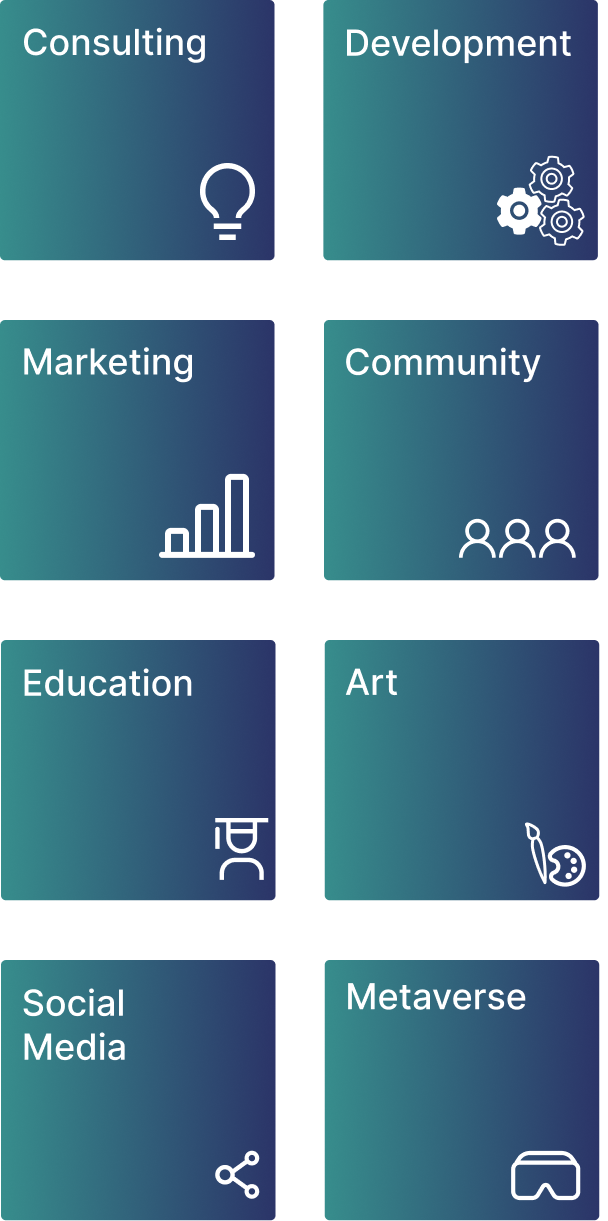
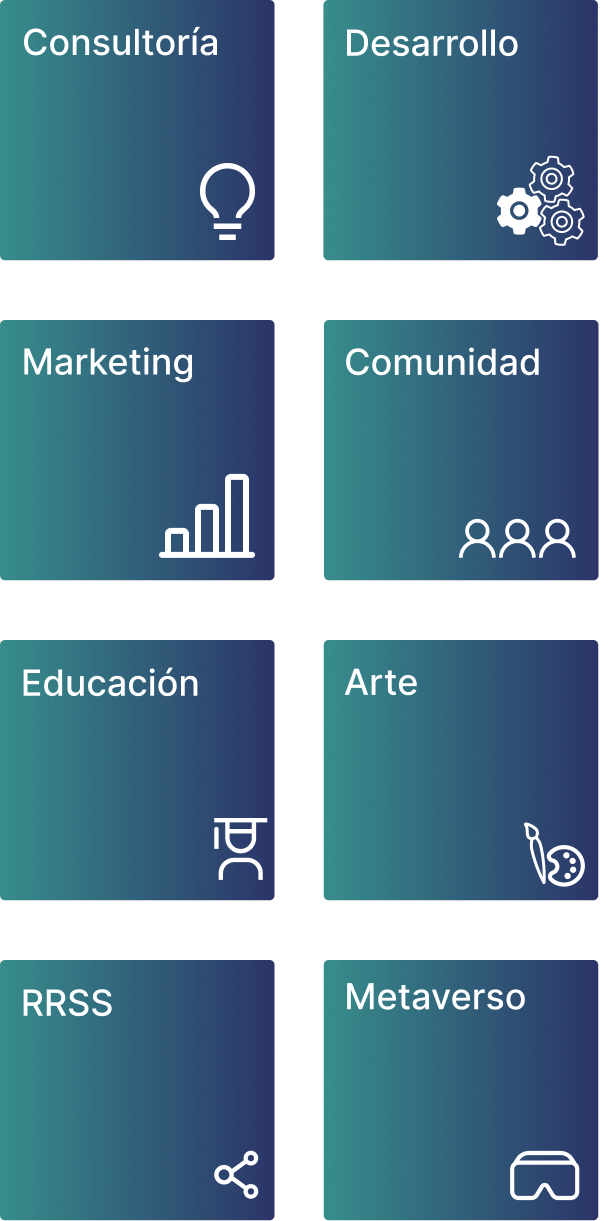
Minoir change

diff --git a/pages/team.js b/pages/team.js
@@ -1,0 +1,163 @@
+import Head from 'next/head'
+import {Row, Col} from 'antd'
+import {GrLinkedin} from 'react-icons/gr'
+import Layout from '../components/general/Layout'
+export default function Team() {
+
+  return (
+    <Layout>
+      <Head>
+        <title>Nomu Labs | Team</title>
+        <meta name="description" content="Nomu Labs es una agencia Web3 que te acompaña de principio a fin durante tu aventura en el metaverso." />
+        <link rel="icon" href="/favicon.ico" />
+      </Head>
+      <div className="fullScreen d-flex justify-content-center align-items-center mt-5 p-5">
+        <div>
+            <h1 className="text-white"><b>Nomu Labs Core Team</b></h1>
+        <Row justify="center" gutter={[32,32]} className="mt-5">
+            <Col sm={24} md={24} lg={4}>
+                <div className='text-center'>
+                    <img src="/assets/team/javi.png" alt="" className="img-fluid" />
+                    <p className="mt-3">
+                        <b>
+                        Javier Mateache<br />
+                        <span className="textGreen">
+                            CEO & Co-Founder
+                        </span>
+                        
+                        </b> 
+                    </p>
+                    <a href="https://www.linkedin.com/in/javier-mateache/" className="textGreen">
+                        <GrLinkedin/>
+                    </a>
+                </div>
+            </Col>
+            <Col sm={24} md={24} lg={4}>
+                <div className='text-center'>
+                    <img src="/assets/team/luis.png" alt="" className="img-fluid" />
+                    <p className="mt-3">
+                        <b>
+                        Luis Pozo-Gilo<br />
+                        <span className="textGreen">
+                            CTO & Co-Founder
+                        </span>
+                        
+                        </b> 
+                    </p>
+                    <a href="https://www.linkedin.com/in/luis-pozo-gilo" className="textGreen">
+                        <GrLinkedin/>
+                    </a>
+                </div>
+            </Col>
+            <Col sm={24} md={24} lg={4}>
+                <div className='text-center'>
+                    <img src="/assets/team/juanma.png" alt="" className="img-fluid" />
+                    <p className="mt-3">
+                        <b>
+                        Juanma Saez<br />
+                        <span className="textGreen">
+                            CBO
+                        </span>
+                        
+                        </b> 
+                    </p>
+                    <a href="https://www.linkedin.com/in/juanmasaezdrr/" className="textGreen">
+                        <GrLinkedin/>
+                    </a>
+                </div>
+            </Col>
+            <Col sm={24} md={24} lg={4}>
+                <div className='text-center'>
+                    <img src="/assets/team/camille.png" alt="" className="img-fluid" />
+                    <p className="mt-3">
+                        <b>
+                        Camille Hajjar<br />
+                        <span className="textGreen">
+                            Head of Art dept
+                        </span>
+                        
+                        </b> 
+                    </p>
+                    <a href="https://www.linkedin.com/in/camille-hajjar-b2499815a/" className="textGreen">
+                        <GrLinkedin/>
+                    </a>
+                </div>
+            </Col>
+            <Col sm={24} md={24} lg={4}>
+                <div className='text-center'>
+                    <img src="/assets/team/carlos.png" alt="" className="img-fluid" />
+                    <p className="mt-3">
+                        <b>
+                        Carlos Pozo-Gilo<br />
+                        <span className="textGreen">
+                            Head of Design
+                        </span>
+                        
+                        </b> 
+                    </p>
+                </div>
+            </Col>                                                
+        </Row>
+        <div className="mt-5">
+        <h2 className="text-white"><b>Advisors & Collaborators</b></h2>
+        <Row justify="center" gutter={[32,32]} className="mt-5">
+            <Col sm={24} md={24} lg={5}>
+                <div className='text-center'>
+                    <img src="/assets/team/juan.png" alt="" className="img-fluid" />
+                    <p className="mt-3">
+                        <b>
+                        Juan Milagro<br />
+                        <span className="textGreen">
+                            Partner at Mavens
+                        </span>
+                        
+                        </b> 
+                    </p>
+                    <a href="https://www.linkedin.com/in/juan-milagro/" className="textGreen">
+                        <GrLinkedin/>
+                    </a>
+                </div>
+            </Col>
+            <Col sm={24} md={24} lg={5}>
+                <div className='text-center'>
+                    <img src="/assets/team/sergio.png" alt="" className="img-fluid" />
+                    <p className="mt-3">
+                        <b>
+                        Sergio Navarro<br />
+                        <span className="textGreen">
+                        Easysmile CEO
+                        </span>
+                        
+                        </b> 
+                    </p>
+                    <a href="https://www.linkedin.com/in/sergionavarrofernandez/" className="textGreen">
+                        <GrLinkedin/>
+                    </a>
+                </div>
+            </Col>
+            <Col sm={24} md={24} lg={5}>
+                <div className='text-center'>
+                    <img src="/assets/team/sean.png" alt="" className="img-fluid" />
+                    <p className="mt-3">
+                        <b>
+                        Sean Bradford<br />
+                        <span className="textGreen">
+                        TheGalleryDAO founder
+                        </span>
+                        </b> 
+                    </p>
+                    <a href="https://www.linkedin.com/in/sean-bradford-21103039/" className="textGreen">
+                        <GrLinkedin/>
+                    </a>
+                </div>
+            </Col>                                             
+        </Row>            
+        </div>
+        </div>
+
+      </div>
+
+
+    </Layout>
+  )
+}

diff --git a/components/general/Layout.js b/components/general/Layout.js
@@ -5,26 +5,38 @@ import {Row, Col} from 'antd'
 export default function Layout(props){
     return(
         <div className='bg-dark'>
-            <nav className="navbar bg-black fixed-top">
-            <div className="container-fluid d-flex justify-content-space-between align-items-center">
-                <a className="navbar-brand" href="#">
+            <nav class="navbar navbar-dark smart-scroll navbar-expand-lg bg-black px-5 w-100 d-flex justify-content-space-between">
+                    <a class="navbar-brand" href="/">
                     <img src="/assets/logo.png" alt="Nomu Labs" className="d-inline-block align-text-middle logo-md"/>
-                </a>
+                    </a>
+                    <button  class="navbar-toggler" type="button" data-bs-toggle="collapse" data-bs-target="#navbarSupportedContent" aria-controls="navbarSupportedContent" aria-expanded="false" aria-label="Toggle navigation">
+                        <span class="navbar-toggler-icon"></span>
+                    </button>
+                <div class="collapse navbar-collapse" id="navbarSupportedContent">
+                    <ul class="navbar-nav">
+                    <li class="nav-item"><a class="nav-link text-white" href="/clients"> <b> Clientes </b></a></li>
+                    <li class="nav-item"><a class="nav-link text-white" href="/team"> <b>Equipo</b> </a></li>
+                    <li class="nav-item">
+                    <a href="https://calendly.com/nomulabs/30min" className='noLink'>
+                                <button className="gradientButton">Contáctanos</button>
+                    </a>
+                    </li>
 
-                <a href="https://calendly.com/nomulabs/30min" className='noLink'>
-                    <button className="gradientButton">Contactanos</button>
-                </a>
-            </div>
-            </nav>        
+                    </ul>
+                </div>
+                </nav>
             {props.children}
             <div className="bg-black">
             <div className="container-fluid py-3">
-                <Row justify="space-between" align="middle">
+                <Row justify="space-between" align="bottom">
                     <Col>
                         <img src="/assets/logo.png" alt="Nomu Labs" className="d-inline-block align-text-middle logo-md"/>                    
                     </Col>
                     <Col>
                         <a href="mailto:info@nomulabs.com" className="noLink text-white">info@nomulabs.com</a>
+                        <p className="text-center m-0">
+                        Madrid, Spain
+                        </p>
                     </Col>
                     <Col>
                     <Row>

diff --git a/pages/index.js b/pages/index.js
@@ -37,7 +37,7 @@ const indicatorStyles =  {
             <div className='mx-auto'>
               <img src="/assets/textLogo.png" alt="Nomu Labs" className="logo-xl" />
             <h2 className="mt-3 text-white">Adelantate para destacar.</h2>
-            <h5 className='gradientText text-start'>Web3 Agency</h5>
+            <h5 className='gradientText text-start'>Agencia Web3</h5>
             </div>
           </Col>
           <Col lg={16} className="text-end">
@@ -52,7 +52,7 @@ const indicatorStyles =  {
             <div className=''>
               <h1 className="gradientText"><b>Nomu</b> Labs</h1>
               <p className="mt-3 text-white text-md">
-              Contamos con un equipo y una red de partners que nos permiten proporcionar servicios 360º para cubrir todas las necesidades de tu proyecto.
+              Contamos con un equipo y una red de partners que nos permiten proporcionar un servicio 360º, con el objetivo de  cubrir todas las necesidades de tu proyecto.
               </p>
             </div>
           </Col>
@@ -74,12 +74,12 @@ const indicatorStyles =  {
             <h1 className='text-white'>Prepárate para la <span className="gradientText">tercera fase de internet.</span></h1>
             {/* <a href="!#"><h6 className="text-white mt-3">Saber más &gt;</h6></a> */}
           </Col>
-          <Col lg={12} md={24} className="">
-            <div className='d-none d-lg-block text-end'>
-              <img src="/assets/services.png" alt="" className="img-fluid" />
+          <Col lg={12} md={24} className="text-center">
+            <div className='d-none d-lg-block  mx-auto'>
+              <img src="/assets/services.png" alt="" className="img-fluid mx-auto" />
             </div>
-            <div className="d-lg-none">
-            <img src="/assets/servicesmobile.png" alt="" className="img-fluid" />
+            <div className="d-lg-none mx-auto">
+            <img src="/assets/servicesmobile.png" alt="" className="img-fluid mx-auto" />
             </div>
           </Col>
         </Row>

diff --git a/pages/clients.js b/pages/clients.js
@@ -1,28 +1,7 @@
 import Head from 'next/head'
-import Image from 'next/image'
 import {Row, Col} from 'antd'
-import { Carousel } from 'react-responsive-carousel';
-import {GrNext, GrPrevious} from 'react-icons/gr'
-import {InlineWidget} from 'react-calendly'
 import Layout from '../components/general/Layout'
-export default function Home() {
-  const arrowStyles = {
-    position: 'absolute',
-    zIndex: 2,
-    top: 'calc(50% - 15px)',
-    width: 30,
-    height: 30,
-    cursor: 'pointer',
-};
-
-const indicatorStyles =  {
-    background: 'rgb(170, 166, 166)',
-    width: 40,
-    height: 20,
-    display: 'inline-block',
-    margin: '0 8px',
-};
-
+export default function Clients() {
 
   return (
     <Layout>
